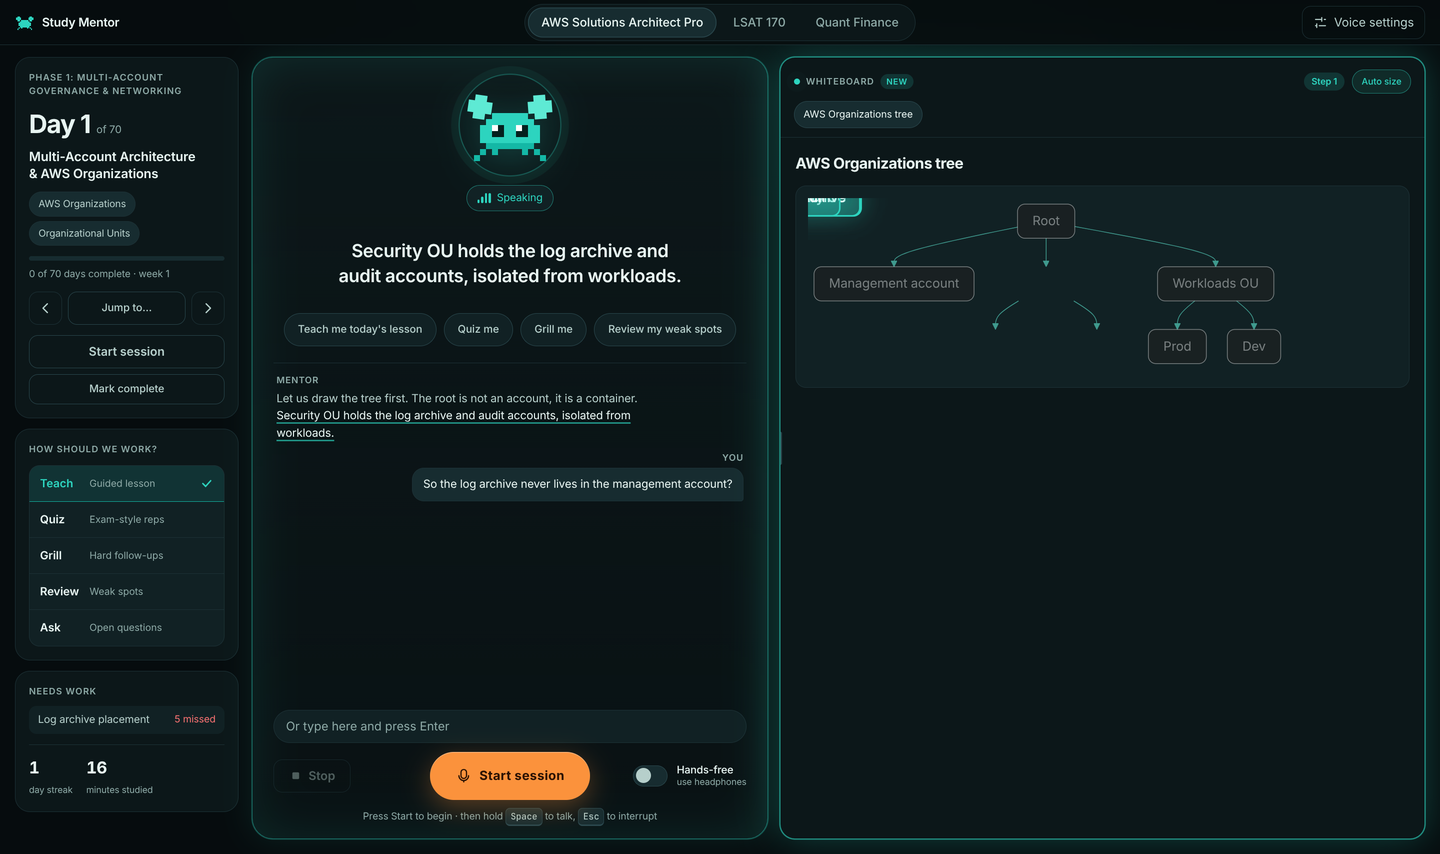
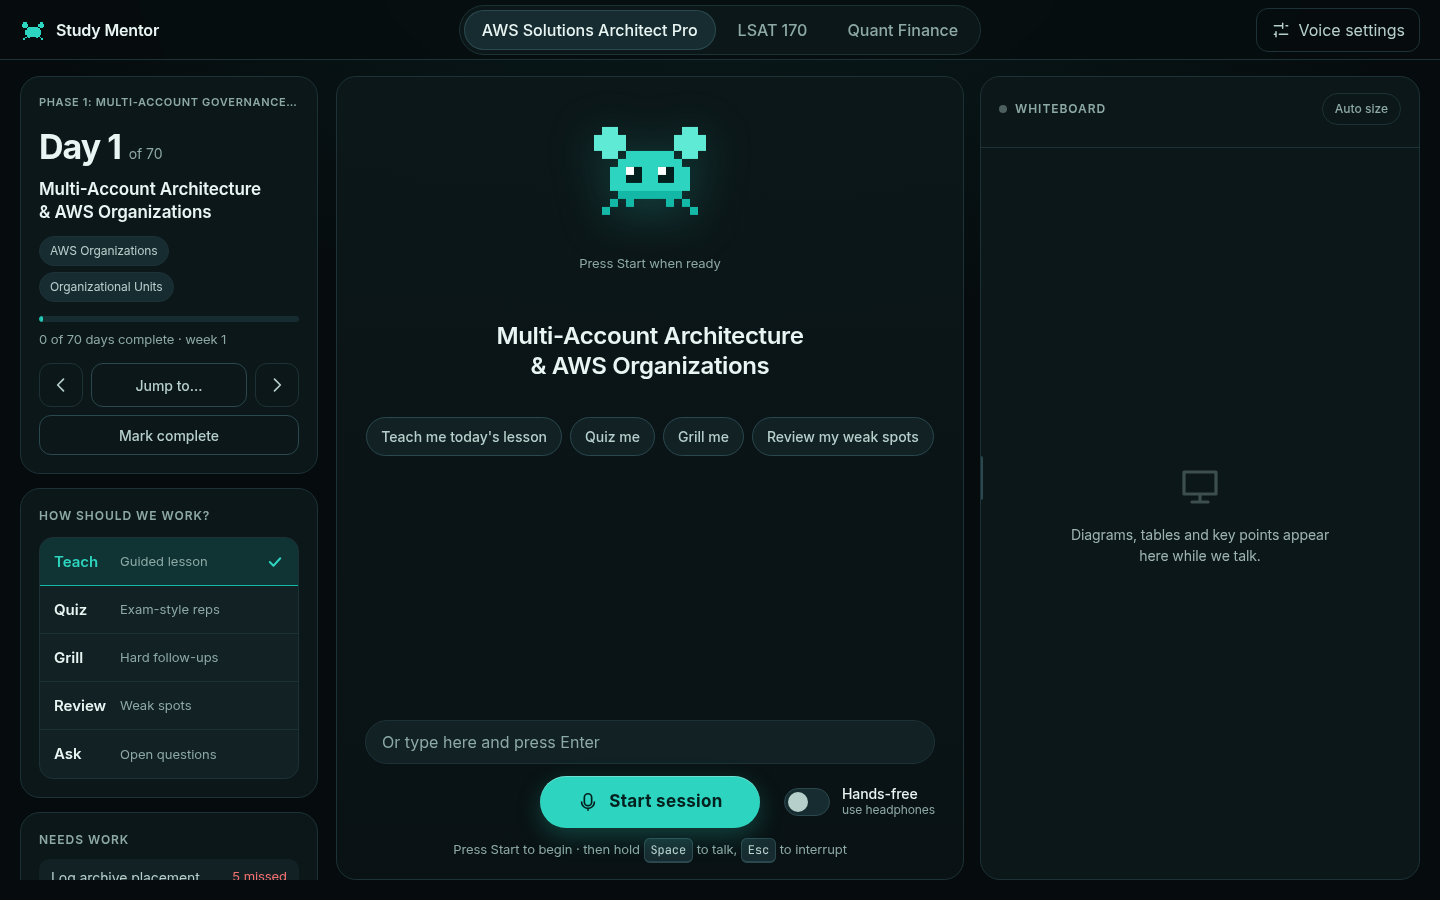
Portable paths, quieter status line, refreshed screenshot

diff --git a/docs/index.html b/docs/index.html
@@ -501,16 +501,16 @@
         <ol>
           <li><strong>Clone the repository</strong> and enter the directory.</li>
           <li><strong>Create a virtual environment</strong> and install dependencies.</li>
-          <li><strong>Add your API key</strong> to <code>~/.config/buddi/deepseek.key</code>.</li>
-          <li><strong>Download TTS models</strong> into <code>~/buddi/tts</code>.</li>
+          <li><strong>Add your API key</strong> to <code>~/.config/study-mentor/deepseek.key</code>.</li>
+          <li><strong>Download TTS models</strong> into <code>~/.local/share/study-mentor/tts</code>.</li>
           <li><strong>Run the server</strong> and open the local URL.</li>
         </ol>
         <pre><code id="install-code">git clone https://github.com/consultantstanleymn/study-mentor.git
 cd study-mentor
 python -m venv venv
 venv/bin/pip install fastapi "uvicorn[standard]" httpx beautifulsoup4 lxml faster-whisper numpy soundfile kokoro-onnx python-multipart
-put your API key in ~/.config/buddi/deepseek.key
-download kokoro-v1.0.onnx and voices-v1.0.bin into ~/buddi/tts
+put your API key in ~/.config/study-mentor/deepseek.key
+download kokoro-v1.0.onnx and voices-v1.0.bin into ~/.local/share/study-mentor/tts
 ./run.sh
 open http://127.0.0.1:8765</code></pre>
         <button class="copy-btn" id="copy-button" aria-label="Copy installation commands">

diff --git a/static/style.css b/static/style.css
@@ -425,3 +425,6 @@ input[type=range] { accent-color: var(--primary); min-height: 32px; }
 .today #phase { white-space: nowrap; overflow: hidden; text-overflow: ellipsis; }
 .stage:has(.transcript:empty) .avatar-wrap { margin-top: auto; }
 .stage:has(.transcript:empty) .suggest { margin-bottom: auto; }
+.status { background: transparent; border-color: transparent; color: var(--muted); font-size: 13px; }
+.side { padding-bottom: 20px; }
+.board-empty { color: var(--muted); opacity: .85; }

diff --git a/server/voice.py b/server/voice.py
@@ -9,7 +9,7 @@ from pathlib import Path
 import numpy as np
 import soundfile as sf
 
-KOKORO_DIR = Path(os.environ.get("MENTOR_KOKORO_DIR", Path.home() / "buddi" / "tts"))
+KOKORO_DIR = Path(os.environ.get("MENTOR_KOKORO_DIR", Path.home() / ".local" / "share" / "study-mentor" / "tts"))
 WHISPER_MODEL = os.environ.get("MENTOR_WHISPER", "base.en")  # small.en is more accurate but about 3x slower on a laptop CPU
 DEFAULT_VOICE = os.environ.get("MENTOR_VOICE", "bm_george")
 

diff --git a/server/tutor.py b/server/tutor.py
@@ -10,7 +10,7 @@ import prompts
 
 API_URL = os.environ.get("MENTOR_API_URL", "https://api.deepseek.com/chat/completions")
 MODEL = os.environ.get("MENTOR_MODEL", "deepseek-v4-pro")
-KEY_FILE = Path(os.environ.get("MENTOR_KEY_FILE", Path.home() / ".config" / "buddi" / "deepseek.key"))
+KEY_FILE = Path(os.environ.get("MENTOR_KEY_FILE", Path.home() / ".config" / "study-mentor" / "deepseek.key"))
 MAX_HISTORY = 28  # messages kept besides the system prompt
 
 

diff --git a/widget/crab_widget.py b/widget/crab_widget.py
@@ -19,7 +19,7 @@ BASE = "http://127.0.0.1:8765"
 HOME = Path.home()
 SCHEDULE = HOME / ".config/study-mentor/schedule.json"
 FIRED = HOME / ".local/state/study-mentor/fired.json"
-RUN_SH = "/home/stanleysujithnelavala/study-mentor/run.sh"
+RUN_SH = str(Path(__file__).resolve().parent.parent / "run.sh")
 DEFAULT = {
     "reminders": [
         {"id": "aws", "time": "19:30", "days": [0, 1, 2, 3, 4], "track": "aws", "enabled": True},

diff --git a/README.md b/README.md
@@ -53,12 +53,12 @@ cd study-mentor
 python -m venv venv
 venv/bin/pip install fastapi "uvicorn[standard]" httpx beautifulsoup4 lxml faster-whisper numpy soundfile kokoro-onnx python-multipart PySide6-Essentials
 
-mkdir -p ~/buddi/tts
-# Download kokoro-v1.0.onnx and voices-v1.0.bin into ~/buddi/tts
+mkdir -p ~/.local/share/study-mentor/tts
+# Download kokoro-v1.0.onnx and voices-v1.0.bin into ~/.local/share/study-mentor/tts
 # See: https://github.com/thewh1teagle/kokoro-onnx
 
-mkdir -p ~/.config/buddi
-echo "YOUR_KEY" > ~/.config/buddi/deepseek.key
+mkdir -p ~/.config/study-mentor
+echo "YOUR_KEY" > ~/.config/study-mentor/deepseek.key
 
 ./run.sh
 ```
@@ -72,11 +72,11 @@ Set these environment variables before running, or export them in your shell pro
 | Variable | Default | Description |
 |---|---|---|
 | `MENTOR_API_KEY` | unset | API key for the language model. If unset, the key is read from `MENTOR_KEY_FILE`. |
-| `MENTOR_KEY_FILE` | `~/.config/buddi/deepseek.key` | Path to a file containing the API key. |
+| `MENTOR_KEY_FILE` | `~/.config/study-mentor/deepseek.key` | Path to a file containing the API key. |
 | `MENTOR_API_URL` | `https://api.deepseek.com/chat/completions` | OpenAI-compatible chat completions endpoint. |
 | `MENTOR_MODEL` | `deepseek-v4-pro` | Model name to request from the API. |
 | `MENTOR_WHISPER` | `base.en` | faster-whisper model. Use `small.en` for better accuracy at the cost of speed. |
-| `MENTOR_KOKORO_DIR` | `~/buddi/tts` | Directory containing `kokoro-v1.0.onnx` and `voices-v1.0.bin`. |
+| `MENTOR_KOKORO_DIR` | `~/.local/share/study-mentor/tts` | Directory containing `kokoro-v1.0.onnx` and `voices-v1.0.bin`. |
 
 Available Kokoro voices include `bm_george`, `bm_lewis`, and `bf_emma`. The voice is configurable in the app's Voice settings.
 

diff --git a/widget/README.md b/widget/README.md
@@ -1,5 +1,5 @@
 Study Mentor crab: a pixel crab that walks onto the screen at study time, says a line out loud and offers to start the app.
-Run it: `./venv/bin/python widget/crab_widget.py` (autostart: copy `widget/study-mentor-crab.desktop` to `~/.config/autostart/`).
+Run it: `./venv/bin/python widget/crab_widget.py` (autostart: copy `widget/study-mentor-crab.desktop` to `~/.config/autostart/` and replace `@INSTALL_DIR@` with the folder you cloned into).
 Schedule: `~/.config/study-mentor/schedule.json` (edit by hand or in the Voice settings popover); fired reminders are remembered in `~/.local/state/study-mentor/fired.json`.
 Test: `./venv/bin/python widget/crab_widget.py --test aws` (or `lsat`, `quant`); `--once` does a single check and exits.
 KWin rule "crab" for window class `study-mentor-crab` (keep above, no taskbar, pager or switcher, no border) is stored in `~/.config/kwinrulesrc`.
